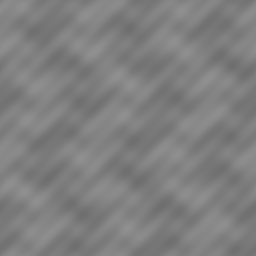
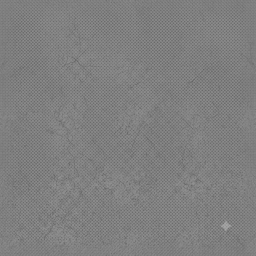
Give the board a real material
Halftone-screened stone, which is the last of the three things the reference art
had and the board did not — after the tiles' outline and their inset face.

Almost all of `cut_grain.py` is about one number. The shader reads this file's red
channel, doubles it, and *multiplies* the tile's own colour by the result, which
makes 128 the identity: mid-grey means "leave this tile alone". The sheet arrived
averaging 149. That is a 17% lightening applied to every tile on the board, in
every palette, and it would have been read as the palette being wrong rather than
the texture. It is re-centred, and the swing held inside ±32 so the multiply
cannot argue with the colour underneath it.

Three smaller passes. The bright tail is despeckled, because a generator signs its
work and a signature in a tiling texture is a signature repeated across the whole
board — filled from a ring around it rather than clamped, so the hole takes the
texture's own material. Greyscale, since only `.r` is ever read. And the borders
are cross-faded into their mirrors, which makes the wrap exact by construction;
invisible on a fine even field, which is why the brief asks for a field and not a
picture.

The measurement is in the output rather than assumed: mean 149.5 to 126.9, seam
0.4 levels across and down.

diff --git a/hexflow/tools/cut_grain.py b/hexflow/tools/cut_grain.py
@@ -1,0 +1,181 @@
+#!/usr/bin/env python3
+"""Turn a drawn stone texture into the board's material map.
+
+    python3 tools/cut_grain.py ~/Downloads/stone.png
+
+`tile_grain.png` is not a picture. The shader reads its red channel, doubles it,
+and *multiplies* the tile's own colour by the result:
+
+    g = texture(grain_map, ...).r * 2.0
+    base *= mix(1.0, g, grain_strength)
+
+which makes **mid-grey the identity**. 128 means "leave this tile alone"; darker
+darkens it and lighter lightens it. So the one thing that matters more than what
+the texture depicts is what it *averages*, and no image generator has any reason
+to land on 128 — the sheet this was written for came back at 149, which is a 17%
+lightening applied to every tile on the board and would have fought the palette
+everywhere.
+
+Four passes, in this order:
+
+  * **Greyscale**, because only `.r` is ever read and a hue in the file is a hue
+    nobody can see but everybody inherits.
+  * **Despeckle** the bright tail. A generator signs its work, and a watermark in
+    a tiling texture is a watermark repeated across the whole board. Anything far
+    above the field is replaced from a ring around it rather than clamped, so the
+    hole is filled with the texture's own material.
+  * **Re-centre on mid-grey**, then hold the contrast inside a range the multiply
+    can survive.
+  * **Make it wrap**, by cross-fading each border into its mirror. Guarantees the
+    first column equals the last by construction. On a fine even field it cannot
+    be seen; on anything with structure it would be obvious, which is why the
+    brief asks for a field.
+
+Standard library only.
+"""
+
+import sys
+
+sys.path.insert(0, __import__("os").path.dirname(__file__))
+from cut_marks import read_png, write_png  # noqa: E402
+
+SIZE = 256
+
+## What the shader treats as "no change".
+NEUTRAL = 128
+
+## How far from neutral the texture is allowed to swing, in 0-255 levels. The
+## multiply doubles whatever is here, so ±32 is a 0.75x-1.25x range on the tile —
+## enough to read as a material, not enough to argue with the palette.
+SWING = 32
+
+## A pixel this far above the field is not the field. Sized to catch a watermark
+## and to leave real speckle alone.
+SPECKLE_OVER = 26
+
+## Fraction of the side spent cross-fading each border into its mirror.
+WRAP = 0.07
+
+
+def luminance(width, height, rows):
+    out = bytearray(width * height)
+    for y in range(height):
+        row = rows[y]
+        base = y * width
+        for x in range(width):
+            out[base + x] = (row[x * 4] * 299 + row[x * 4 + 1] * 587
+                             + row[x * 4 + 2] * 114) // 1000
+    return out
+
+
+def despeckle(lum, width, height):
+    """Replace anything far brighter than the field with the field around it."""
+    ordered = sorted(lum[::7])
+    high = ordered[len(ordered) * 99 // 100]
+    ceiling = high + SPECKLE_OVER
+    reach = max(8, width // 40)
+    fixed = 0
+    for y in range(height):
+        base = y * width
+        for x in range(width):
+            if lum[base + x] <= ceiling:
+                continue
+            # A ring, not a disc: the neighbours immediately around a mark are
+            # part of the mark, and the point is to borrow clean material.
+            total = n = 0
+            for dx, dy in ((reach, 0), (-reach, 0), (0, reach), (0, -reach),
+                           (reach, reach), (-reach, -reach),
+                           (reach, -reach), (-reach, reach)):
+                sx, sy = (x + dx) % width, (y + dy) % height
+                v = lum[sy * width + sx]
+                if v <= ceiling:
+                    total += v
+                    n += 1
+            if n:
+                lum[base + x] = total // n
+                fixed += 1
+    if fixed:
+        print("  despeckled %d px above %d — a signature, most likely" % (fixed, ceiling))
+    return lum
+
+
+def recentre(lum):
+    """Put the average on neutral and hold the swing inside SWING."""
+    mean = sum(lum) / len(lum)
+    spread = sorted(lum[::7])
+    low = spread[len(spread) // 100]
+    high = spread[99 * len(spread) // 100]
+    reach = max(1.0, (high - low) / 2.0)
+    scale = min(1.0, SWING / reach)
+    print("  mean %.1f → %d, swing ±%.0f → ±%.0f"
+          % (mean, NEUTRAL, reach, reach * scale))
+    for i, v in enumerate(lum):
+        lum[i] = max(0, min(255, int(NEUTRAL + (v - mean) * scale)))
+    return lum
+
+
+def make_wrap(lum, width, height):
+    """Cross-fade each border into its own mirror, so the edges meet exactly."""
+    border = max(2, int(width * WRAP))
+    for y in range(height):
+        base = y * width
+        for x in range(border):
+            a = 0.5 * (1.0 - x / float(border))
+            left, right = lum[base + x], lum[base + width - 1 - x]
+            lum[base + x] = int(left * (1 - a) + right * a)
+            lum[base + width - 1 - x] = int(right * (1 - a) + left * a)
+    for x in range(width):
+        for y in range(border):
+            a = 0.5 * (1.0 - y / float(border))
+            top, bottom = lum[y * width + x], lum[(height - 1 - y) * width + x]
+            lum[y * width + x] = int(top * (1 - a) + bottom * a)
+            lum[(height - 1 - y) * width + x] = int(bottom * (1 - a) + top * a)
+    return lum
+
+
+def downsample(lum, width, height, size):
+    out = [bytearray(size * 4) for _ in range(size)]
+    for dy in range(size):
+        sy0, sy1 = dy * height // size, max(dy * height // size + 1, (dy + 1) * height // size)
+        for dx in range(size):
+            sx0, sx1 = dx * width // size, max(dx * width // size + 1, (dx + 1) * width // size)
+            total = n = 0
+            for sy in range(sy0, sy1):
+                base = sy * width
+                for sx in range(sx0, sx1):
+                    total += lum[base + sx]
+                    n += 1
+            v = total // max(n, 1)
+            o = dx * 4
+            out[dy][o] = out[dy][o + 1] = out[dy][o + 2] = v
+            out[dy][o + 3] = 255
+    return out
+
+
+def main():
+    if len(sys.argv) < 2:
+        raise SystemExit("usage: python3 tools/cut_grain.py <source.png> [out.png]")
+    # `~` survives make's quoting and would otherwise arrive as a literal.
+    source = __import__("os").path.expanduser(sys.argv[1])
+    target = sys.argv[2] if len(sys.argv) > 2 else "assets/art/tile_grain.png"
+
+    width, height, rows = read_png(source)
+    print("read %d×%d" % (width, height))
+    lum = luminance(width, height, rows)
+    lum = despeckle(lum, width, height)
+    lum = recentre(lum)
+    lum = make_wrap(lum, width, height)
+
+    out = downsample(lum, width, height, SIZE)
+    check = [out[y][x * 4] for y in range(SIZE) for x in range(SIZE)]
+    seam_x = sum(abs(out[y][0] - out[y][(SIZE - 1) * 4]) for y in range(SIZE)) / SIZE
+    seam_y = sum(abs(out[0][x * 4] - out[SIZE - 1][x * 4]) for x in range(SIZE)) / SIZE
+    print("  final mean %.1f (neutral is %d), seam %.1f across / %.1f down"
+          % (sum(check) / len(check), NEUTRAL, seam_x, seam_y))
+
+    write_png(target, SIZE, SIZE, out)
+    print("wrote %s — %d×%d, a value map" % (target, SIZE, SIZE))
+
+
+if __name__ == "__main__":
+    main()

diff --git a/hexflow/docs/ASSET-REQUIREMENTS.md b/hexflow/docs/ASSET-REQUIREMENTS.md
@@ -89,6 +89,20 @@ That constrains the art in a way no image generator manages unprompted:
 The four corners are the only part kept as drawn, because they are the only part never
 stretched. Ask for ornament there and nowhere else.
 
+### The board material — why mid-grey is the whole brief
+
+`tile_grain.png` is not a picture. The shader reads its red channel, doubles it and
+*multiplies* the tile's colour by the result, so **128 grey means "leave this tile
+alone"**. An image that averages brighter lightens every tile on the board; darker
+darkens them. The sheet this was written for came back at 149 — a 17% lightening
+applied everywhere, fighting the palette in all six variants.
+
+`make grain-cut` re-centres it on 128, holds the swing inside ±32, removes the
+generator's signature from the bright tail, and cross-fades the borders into their
+mirrors so it wraps. Ask for **an even all-over field** with no composition: one tile
+samples about 90% of the texture, so anything large enough to be a feature appears on
+every tile at once.
+
 The second rule: **filenames are the contract.** Nothing in the code names an image except
 [`src/view/art.gd`](../src/view/art.gd). Match the names below and no script changes.
 
@@ -104,7 +118,7 @@ files it writes beside them.
 | Chapter backdrops | `menu.png`, `chapter_1…5.png` | 1920×1200 preferred | 6 | `backdrop_tint` | **Provided** | Painted illustrations, 1312×816. `make art` will never overwrite a backdrop that exists |
 | Panel frame | `panel_frame.png` | 9-slice inset **24 px**; size follows the drawn border | 1 | `surface_frame` | **Provided** | Carved timber with scrolled corners, 192×192. Cut by `make panels-cut` |
 | Panel fill | `panel_fill.png` | 9-slice inset **24 px** | 1 | `surface_panel` | **Provided** | Quiet reading surface, 96×96 |
-| Board material | `tile_grain.png` | 256×256, **seamlessly tiling** | 1 | not tinted — a *value* map | **Placeholder** | Generated grain, sampled in board space so it turns with the board. Off entirely under §21's flat-board setting |
+| Board material | `tile_grain.png` | 256×256, **seamlessly tiling**, mid-grey average | 1 | not tinted — a *value* map | **Provided** | Halftone-screened stone, cut by `make grain-cut`. Sampled **per tile**, turned by a hash of the tile's own position, so every slab is its own piece of stone. Off entirely under §21's flat-board setting |
 | Controller glyphs | `assets/glyphs/<family>_<slot>.png` | 48×48 | **52** (13 slots × 4 families) | `text_primary` | **Placeholder** | Drawn by `make glyphs`: the outline a thumb looks for, plus 1–4 letters taken from `src/data/input_glyphs.json`. **Nothing loads them yet** — the HUD still shows the text label |
 | Brand mark | `logo.png` | 512×512 raster preferred | 1 | — | **Provided** | A painted title card, 1024×1024. A vector `logo.svg` is still worth having for the store page |
 
